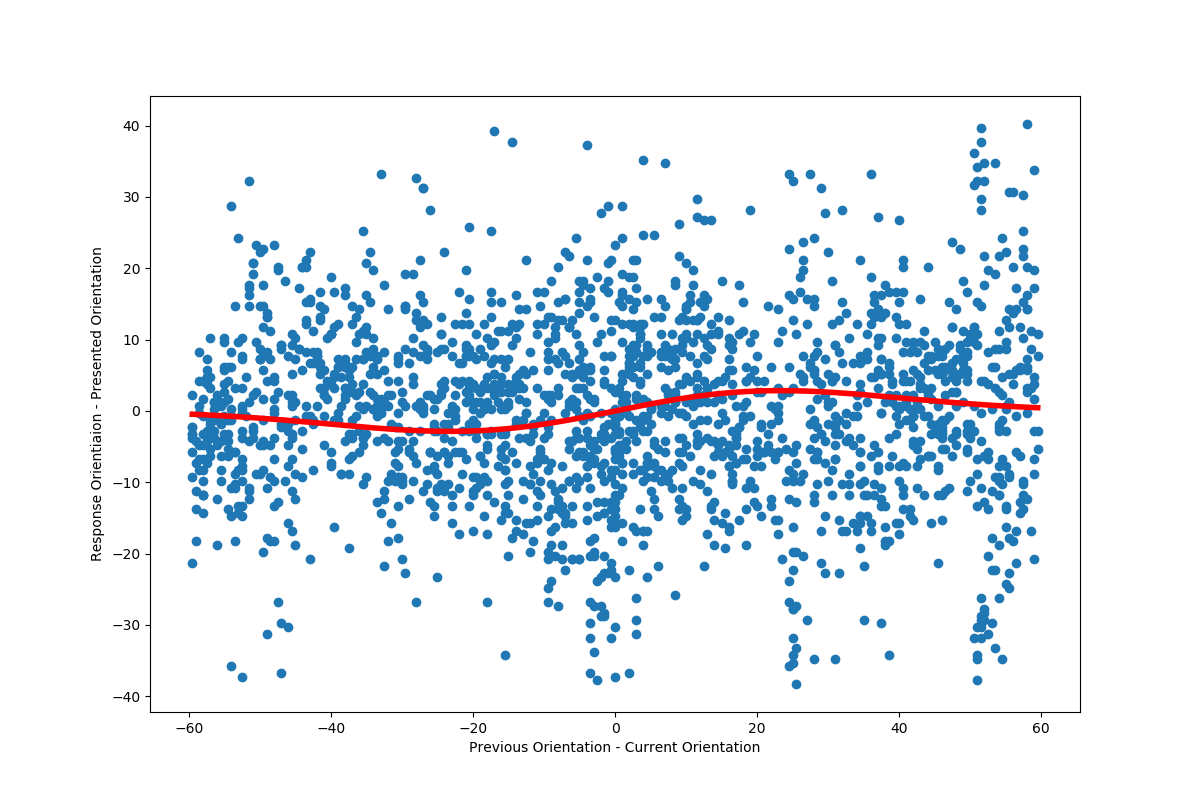
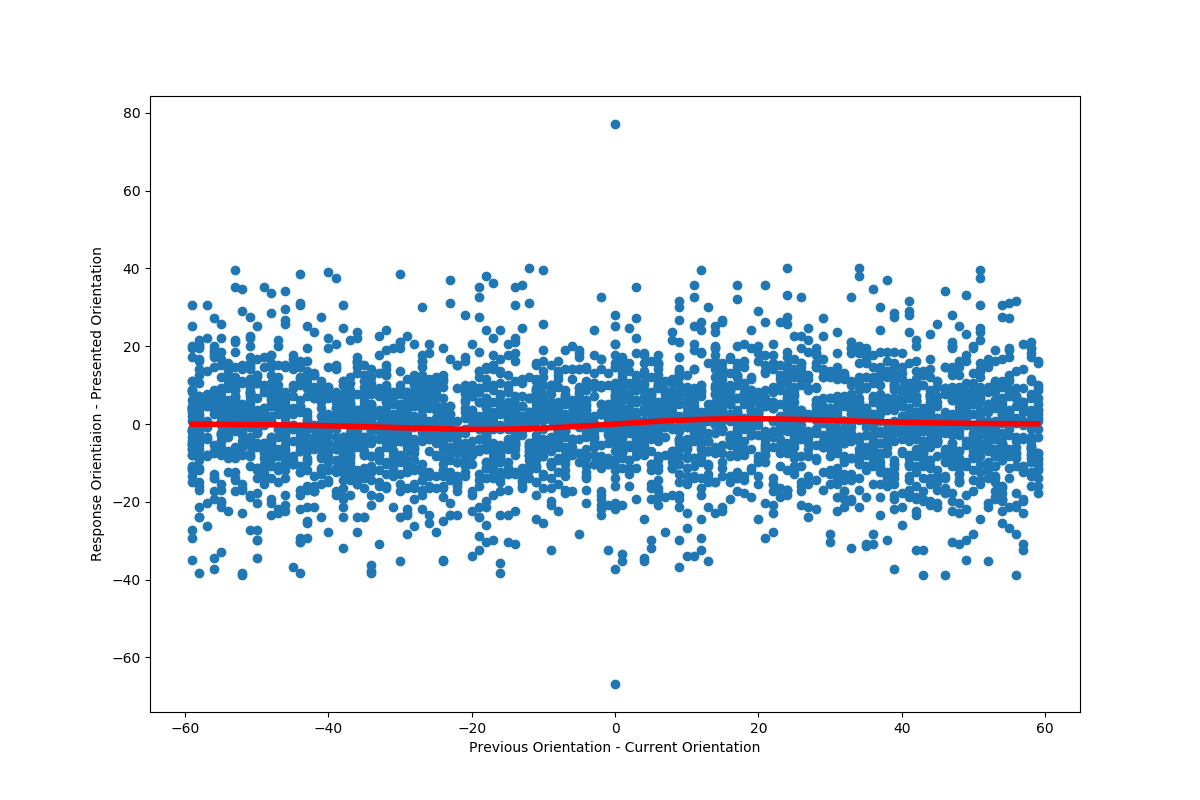
8 class analysis

diff --git a/code/DoG.py b/code/DoG.py
@@ -11,12 +11,13 @@ from scipy import stats
 import scipy.special as sps
 
 from load_data import load_behavior, new_beh_lst
+from main_analysis import meg_subj_lst
 from serial_dependence import calc_relative_orientation
 
 def calc_rel_or_all(X):
     return np.array([calc_relative_orientation(i) for i in X])
 
-def get_sd_data(subj, error_cutoff=40, or_cutoff=60):
+def get_sd_data(subj, error_cutoff=25, or_cutoff=60, n=500):
     """
     Loads the predicted and actual orientations for the given subject
 
@@ -26,16 +27,30 @@ def get_sd_data(subj, error_cutoff=40, or_cutoff=60):
     pred, actual = load_behavior(subj)
     pred, actual = pred[:, :500].flatten(), actual[:, :500].flatten()
 
-    rel_or = -np.diff(pred, prepend=pred[0])
+    rel_or = np.array([0] + [actual[i-1] - actual[i] for i in range(1, 500)])
     rel_or = calc_rel_or_all(rel_or)
+    
     
 
     error = calc_rel_or_all(pred - actual)
+
     rel_or = rel_or[np.abs(error) < error_cutoff]
     error = error[np.abs(error) < error_cutoff]
 
     error = error[np.abs(rel_or) < or_cutoff]
     rel_or = rel_or[np.abs(rel_or) < or_cutoff]
+
+    """res, tgt = load_behavior(subj)
+    res, tgt = res[0, :n], tgt[0, :n]
+    rel_or = [0]
+    first_err = calc_relative_orientation(res[0] - tgt[0])
+    error = [first_err]
+    for i in range(1, n):
+        next_or = calc_relative_orientation(tgt[i-1] - tgt[i])
+        next_er = calc_relative_orientation(res[i] - tgt[i])
+        if np.abs(next_or) < or_cutoff and np.abs(next_er) < error_cutoff:
+            rel_or += [next_or]
+            error += [next_er]"""
 
     return rel_or, error
 
@@ -53,33 +68,72 @@ def init_gmodel(amax=40, amin=-40, bmax=60, bmin=-60):
     gmodel.set_param_hint('b', max=bmax, min=bmin)
     return gmodel
 
-def main():
+def run_all_subj():
     rel_or, error = [], []
-    for subj in new_beh_lst.keys():
+    for subj in meg_subj_lst:
         next_or, next_error = get_sd_data(subj)
         rel_or.extend(next_or)
         error.extend(next_error)
 
     rel_or, error = np.array(rel_or), np.array(error)
-    error = error - np.mean(error)
+    mean_error = error - np.mean(error)
 
     print(error.shape)
     print(rel_or.shape)
 
     gmodel = init_gmodel()
-    result = gmodel.fit(error, x=rel_or, b=0.03)
+    result = gmodel.fit(mean_error, x=rel_or, b=0.03)
 
-    sorted_indices = np.argsort(rel_or)
-    rel_or = rel_or[sorted_indices]
+    
 
     plt.figure(figsize=(12,8))
     plt.scatter(rel_or, error)
+
+    sorted_indices = np.argsort(rel_or)
+    rel_or = rel_or[sorted_indices]
     plt.plot(rel_or, result.best_fit[sorted_indices], color="red", linewidth=4)
     plt.xlabel("Previous Orientation - Current Orientation")
     plt.ylabel("Response Orientiaion - Presented Orientation")
-    plt.savefig("../Figures/SD/DoG.png")
+    plt.xlim((-60, 60))
+    plt.ylim((-40, 40))
+    plt.savefig("../Figures/SD/DoG/DoG.png")
     plt.clf()
 
+def run_subj(subj):
+    rel_or, error = [], []
+    next_or, next_error = get_sd_data(subj)
+    rel_or.extend(next_or)
+    error.extend(next_error)
+
+    rel_or, error = np.array(rel_or), np.array(error)
+    mean_error = error - np.mean(error)
+
+    print(error.shape)
+    print(rel_or.shape)
+
+    gmodel = init_gmodel()
+    result = gmodel.fit(mean_error, x=rel_or, b=0.03)
+
+    
+
+    plt.figure(figsize=(12,8))
+    plt.scatter(rel_or, error)
+
+    sorted_indices = np.argsort(rel_or)
+    rel_or = rel_or[sorted_indices]
+    plt.plot(rel_or, result.best_fit[sorted_indices], color="red", linewidth=4)
+    plt.xlabel("Previous Orientation - Current Orientation")
+    plt.ylabel("Response Orientiaion - Presented Orientation")
+    plt.xlim((-60, 60))
+    plt.ylim((-40, 40))
+    plt.savefig("../Figures/SD/DoG/DoG_%s.png" % subj)
+    plt.clf()
+
+def main():
+    for subj in meg_subj_lst:
+        run_subj(subj)
+
+    run_all_subj()
 
 if __name__ == "__main__":
     main()

diff --git a/code/serial_dependence.py b/code/serial_dependence.py
@@ -102,13 +102,13 @@ def analyze_selectivity(subj, tmin=0, tmax=16, n_bins=18, time_shift=-1, plot=Fa
     return bins
 
 
-def analyze_bias(subj, tmin, tmax, n_bins, normalize=False, time_shift=-1, plot=False):
+def analyze_bias(subj, tmin, tmax, n_bins, n_classes=4, normalize=False, time_shift=-1, plot=False):
     # x-axis: difference between current and previous orientation (bins?)
     # y-axis: decoding bias, i.e. difference between truth and predicted value
     
     diffs = get_diffs(subj, shift=time_shift)
 
-    X, _, y, _ = ld.load_data(subj, data="epochs", n_train=500, n_test=0)
+    X, _, y, _ = ld.load_data(subj, data="epochs", n_classes=n_classes, n_train=500, n_test=0)
 
     bins = [[] for i in range(n_bins)]
     bin_width = 180 // n_bins
@@ -120,7 +120,7 @@ def analyze_bias(subj, tmin, tmax, n_bins, normalize=False, time_shift=-1, plot=
         y_train, y_test = y[train], y[test]
 
         #model = ml.LogisticSlidingModel(max_iter=4000, n_classes=4, k=1000, C=0.05, l1_ratio=0.95)
-        model = ml.LogisticSlidingModel(max_iter=4000, n_classes=4, k=20, C=0.085, l1_ratio=0.95)
+        model = ml.LogisticSlidingModel(max_iter=4000, n_classes=n_classes, k=20, C=0.085, l1_ratio=0.95)
         model.fit(X_train, y_train)
         pred = model.predict(X_test)
         split_diffs = diffs[test]
@@ -131,17 +131,12 @@ def analyze_bias(subj, tmin, tmax, n_bins, normalize=False, time_shift=-1, plot=
                 bin_idx = n_bins - 1
             for j in range(tmin, tmax):
                 bias = pred[i][j] - y_test[i]
-                if bias == 3:
-                    bias = -1
-                elif bias == -3:
-                    bias = 1
-                elif bias == -2:
-                    bias = 2
+                bias = ((bias + (n_classes / 2)) % n_classes) - (n_classes / 2)
+                if bias == -int(n_classes / 2):
+                    bias = n_classes / 2
                     #continue
                 bins[bin_idx] += [bias]
-                all_bias += [bias]
-
-    
+                all_bias += [bias]    
     
     if normalize:
         all_bias = np.array(all_bias)
@@ -193,7 +188,7 @@ def split_half_analysis(subj):
 
     return close_pred, far_pred
 
-def analyze_probabilities(subj):
+def analyze_probabilities(subj, show_plot=False):
     X, _, y, _ = ld.load_data(subj, data="epochs", n_train=500, n_test=0, n_classes=8)
 
     probabilities = np.zeros((16, 8))
@@ -211,7 +206,6 @@ def analyze_probabilities(subj):
         for i in range(16):
             for j in range(X_test.shape[0]):
                 idx = int(y_test[j])
-                #new_probs = [pred[j, i, idx-k] for k in range(3, 0, -1)] + [pred[j, i, idx]] + [pred[j, i, (idx+k) % 8] for k in range(1, 5)]
                 new_probs = [pred[j, i, (idx+k) % 8] for k in range(-3, 5)]
                 new_probs = np.array(new_probs)
                 print(new_probs)
@@ -230,7 +224,10 @@ def analyze_probabilities(subj):
     surf = ax.plot_surface(Xs, Ys, probabilities, cmap="coolwarm")
     fig.colorbar(surf, shrink=0.5, aspect=5)
     plt.savefig("../Figures/SD/proba3D/proba3d_%s" % subj)
-    plt.clf()
+    if show_plot:
+        plt.show()
+    else:
+        plt.clf()
     return probabilities
 
 

diff --git a/code/main_analysis.py b/code/main_analysis.py
@@ -152,10 +152,10 @@ def analyze_selectivity_all_subjects(tmin=0, tmax=16, n_bins=15, time_shift=-1):
     plt.clf()
     return
 
-def analyze_bias_all_subjects(tmin=0, tmax=16, n_bins=15, normalize=False, time_shift=-1, plot_individual=False):
+def analyze_bias_all_subjects(tmin=0, tmax=16, n_bins=15, n_classes=4, normalize=False, time_shift=-1, plot_individual=False):
     bins = [[] for i in range(n_bins)]
     for subj in meg_subj_lst:
-        new_bins = sd.analyze_bias(subj, tmin, tmax, n_bins, normalize=normalize, time_shift=time_shift, plot=plot_individual)
+        new_bins = sd.analyze_bias(subj, tmin, tmax, n_bins, normalize=normalize, n_classes=n_classes, time_shift=time_shift, plot=plot_individual)
         for i in range(n_bins):
             bins[i].extend(new_bins[i])
 
@@ -257,9 +257,18 @@ def run_all_subjects(data='stc', mode="cross_val", permutation_test=False, n_tra
 
 
 def main():
-    #run_all_subjects(data="epochs", permutation_test=False, time_shift=0, n_classes=8)
-    #run_all_subjects(data="epochs", permutation_test=True, time_shift=0, n_classes=8)
-    analyze_probabilities_all()
+    #run_all_subjects(permutation_test=False, time_shift=0, n_classes=8)
+    #run_all_subjects(permutation_test=True, time_shift=0, n_classes=8)
+    #sd.analyze_probabilities('AK', show_plot=True)
+    #analyze_probabilities_all()
+    #analyze_bias_all_subjects(tmin=6, tmax=9, n_classes=8, time_shift=-1)
+    #analyze_bias_all_subjects(tmin=7, tmax=8, n_classes=8, time_shift=-1)
+    #analyze_bias_all_subjects(tmin=0, tmax=16, n_classes=8, time_shift=-1)
+    #analyze_bias_all_subjects(tmin=13, tmax=16, n_classes=8, time_shift=-1)
+    #analyze_bias_all_subjects(tmin=10, tmax=11, n_classes=8, time_shift=-1)
+    analyze_bias_all_subjects(tmin=10, tmax=13, plot_individual=True, n_classes=8, time_shift=-1)
+    #analyze_bias_all_subjects(tmin=11, tmax=12, n_classes=8, time_shift=-1)
+    #analyze_bias_all_subjects(tmin=12, tmax=13, n_classes=8, time_shift=-1)
 
     """for i in [-1, -2, 1]:
         analyze_bias_all_subjects(tmin=6, tmax=9, time_shift=i)
